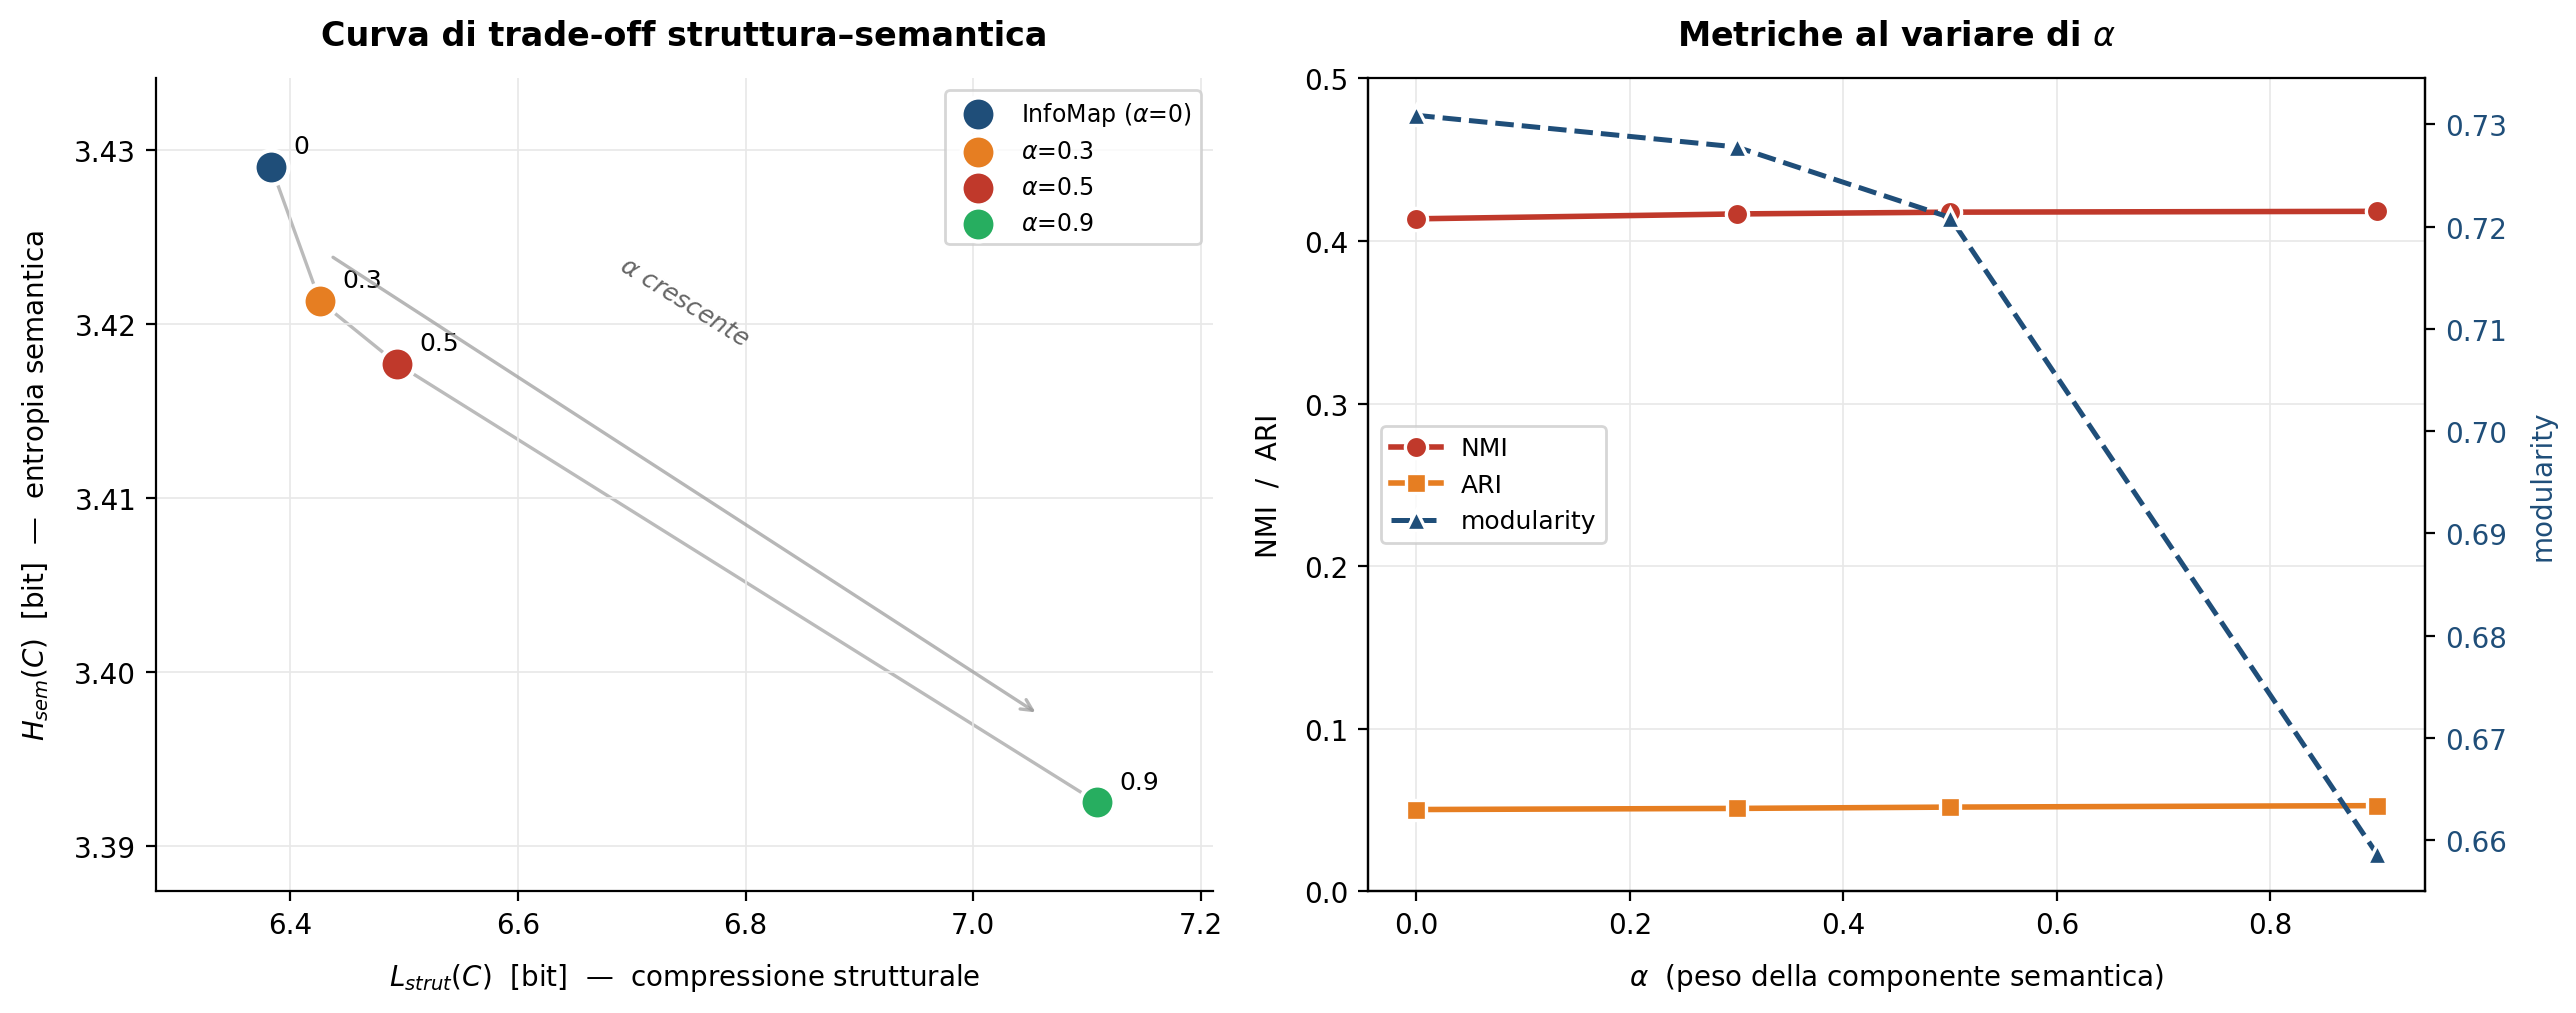
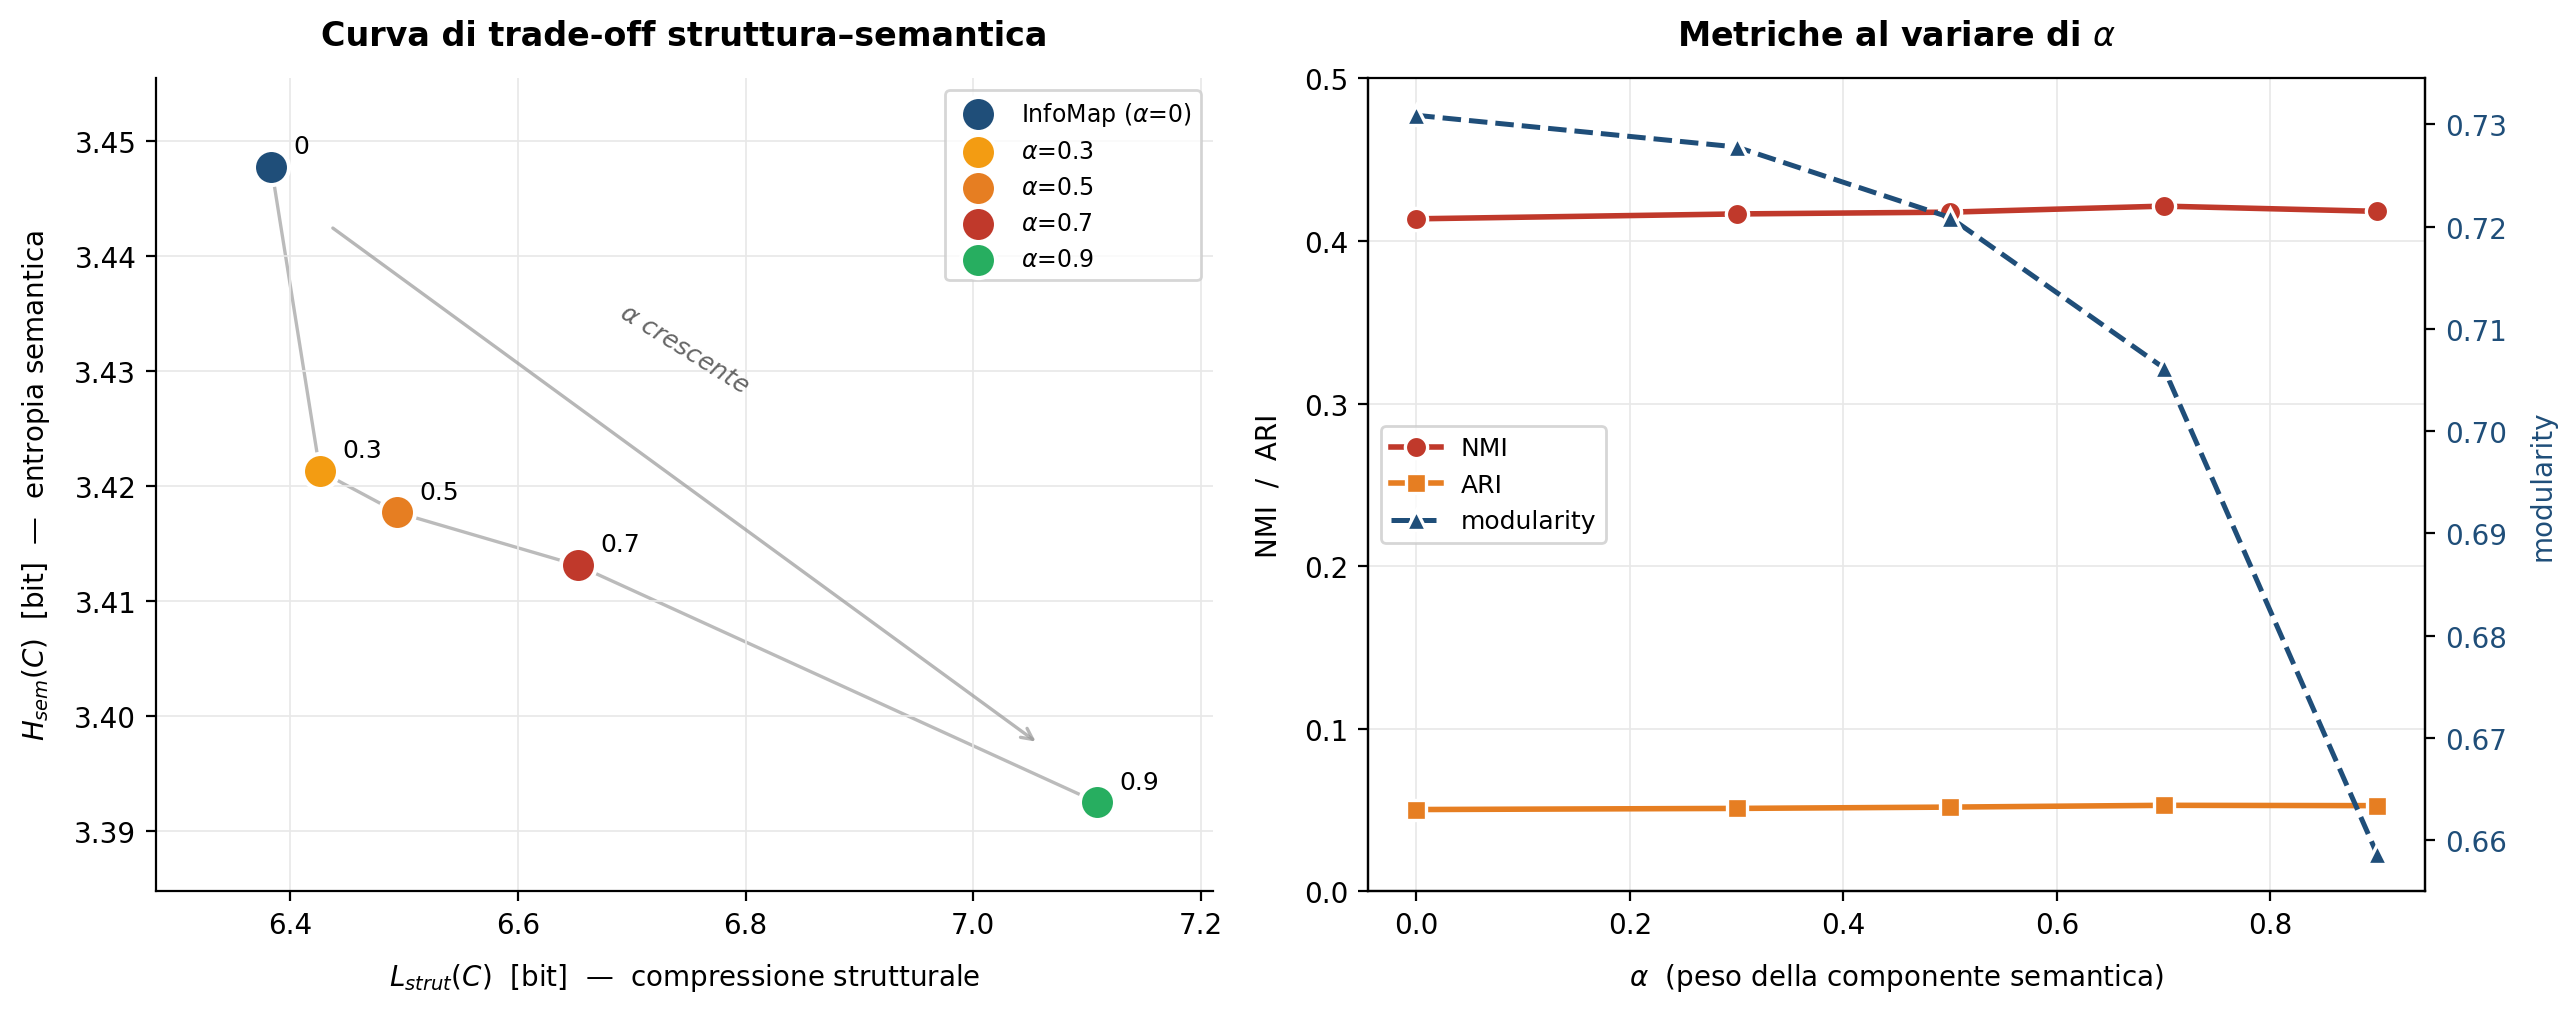
update

diff --git a/scripts/risultati.py b/scripts/risultati.py
@@ -3,9 +3,10 @@ import matplotlib.pyplot as plt
 
 # dati: alpha -> (n_com, h_sem, ppl, codelength, nmi, ari, modularity)
 dati = {
-    0.0: (278, 3.4290, 28.6817, 6.3837, 0.4136, 0.0503, 0.7309),   # InfoMap (h_sem stimato)
+    0.0: (278, 3.4477, 28.6817, 6.3837, 0.4136, 0.0503, 0.7309),   # InfoMap 
     0.3: (278, 3.4213, 27.4310, 6.4263, 0.4166, 0.0510, 0.7278),
     0.5: (276, 3.4177, 27.2733, 6.4942, 0.4177, 0.0518, 0.7209),
+    0.7: (267, 3.4131, 17.7083, 6.6528, 0.4214, 0.0529, 0.7062),
     0.9: (266, 3.3925, 17.4687, 7.1088, 0.4182, 0.0527, 0.6586),
 }
 alpha = np.array(sorted(dati))
@@ -22,10 +23,10 @@ fig, (ax1, ax2) = plt.subplots(1, 2, figsize=(13, 5.2))
 
 # --- SX: curva di trade-off L(C) vs H_sem ---
 ax1.plot(lc, h_sem, "-", color="#bbbbbb", linewidth=1.2, zorder=1)
-colori = ["#1f4e79", "#e67e22", "#c0392b", "#27ae60"]
+colori = {0.0:"#1f4e79", 0.3:"#f39c12", 0.5:"#e67e22", 0.7:"#c0392b", 0.9:"#27ae60"}
 for i, a in enumerate(alpha):
     lbl = "InfoMap ($\\alpha$=0)" if a == 0 else f"$\\alpha$={a}"
-    ax1.scatter(lc[i], h_sem[i], s=150, c=colori[i], edgecolors="white",
+    ax1.scatter(lc[i], h_sem[i], s=160, c=colori[a], edgecolors="white",
                 linewidths=1.5, zorder=3, label=lbl)
     ax1.annotate(f"{a:g}", (lc[i], h_sem[i]), fontsize=9,
                  xytext=(8, 5), textcoords="offset points")